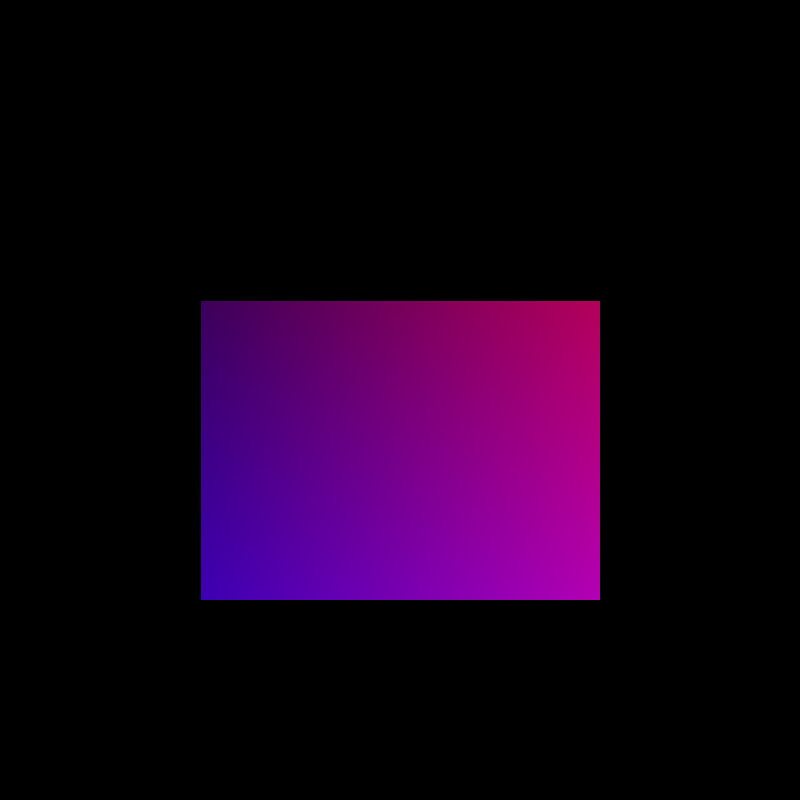
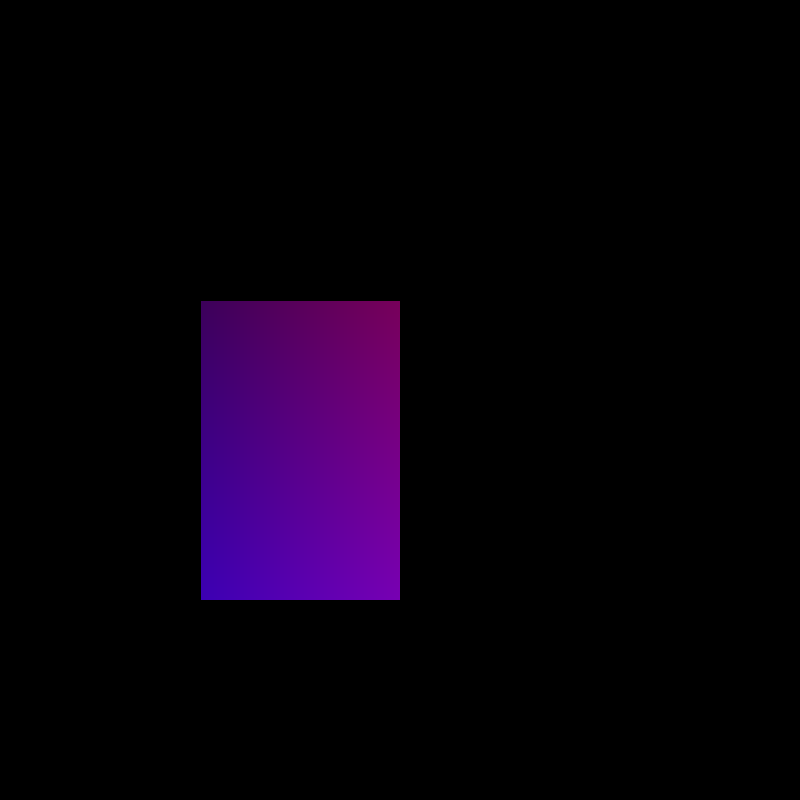
before mod refactoring

Changed region(s): [[0.5, 0.375, 0.75, 0.75]]

diff --git a/src/main.rs b/src/main.rs
@@ -7,7 +7,7 @@ use std::ops::Mul;
 use std::ops::Sub;
 
 fn triang(x: u32, y: u32) -> bool {
-    if (x > 200) & (x < 600) & (y > 300) & (y < 600) {
+    if (x > 200) & (x < 400) & (y > 300) & (y < 600) {
         true
     } else {
         false
@@ -15,7 +15,7 @@ fn triang(x: u32, y: u32) -> bool {
 }
 
 fn square(x: u32, y: u32) -> bool {
-    if (x > 200) & (x < 300) & (y > 100) & (y < 400) {
+    if (x > 200) & (x < 300) & (y > 100) & (y < 200) {
         true
     } else {
         false
@@ -94,7 +94,7 @@ fn distatance(p1: &Vector, p2: &Vector, X: &Vector) -> f32 {
 }
 
 fn warpy<'a>(
-    line_pairs: &'a mut Vec<LinePair>,
+    line_pairs: &'a Vec<LinePair>,
     source: &'a mut image::ImageBuffer<image::Rgb<u8>, Vec<u8>>,
     target: &'a mut image::ImageBuffer<image::Rgb<u8>, Vec<u8>>,
 ) -> (
@@ -135,7 +135,7 @@ fn warpy<'a>(
             let t_pixel = source.get_pixel(X_new.x.floor() as u32, X_new.y.floor() as u32);
             *pixel = t_pixel.clone();
         } else {
-            // *pixel = image::Rgb([0, 0, 0]);
+            *pixel = image::Rgb([255, 255, 255]);
         }
     }
 
@@ -169,36 +169,38 @@ fn main() {
             *pixel = image::Rgb([r, 0, b]);
         } else {
             *pixel = image::Rgb([0, 0, 0]);
-        }
+        } 
     }
 
     imgbufsource.save("./data/source.png").unwrap();
-    imgbufdestination.save("./data/destination.png").unwrap();
+    imgbufdestination.save("./dKDTreeata/destination.png").unwrap();
 
-    let mut lp = vec![
+    let lp = vec![
         LinePair {
             t_line: Line {
-                p: Vector { x: 400.0, y: 500.0 },
-                q: Vector { x: 400.0, y: 520.0 },
+                p: Vector { x: 100.0, y: 100.0 },
+                q: Vector { x: 100.0, y: 200.0 },
             },
             s_line: Line {
-                p: Vector { x: 200.0, y: 500.0 },
-                q: Vector { x: 200.0, y: 550.0 },
+                p: Vector { x: 100.0, y: 100.0 },
+                q: Vector { x: 100.0, y: 200.0 },
             },
         },
         LinePair {
             t_line: Line {
-                p: Vector { x: 400.0, y: 520.0 },
-                q: Vector { x: 500.0, y: 530.0 },
+                p: Vector { x: 100.0, y: 200.0 },
+                q: Vector { x: 200.0, y: 200.0 },
             },
             s_line: Line {
-                p: Vector { x: 200.0, y: 500.0 },
-                q: Vector { x: 200.0, y: 550.0 },
+                p: Vector { x: 100.0, y: 200.0 },
+                q: Vector { x: 200.0, y: 250.0 },
             },
         },
     ];
+        
+    let (a, b) = warpy(&lp, &mut imgbufsource, &mut imgbufdestination);
 
-    let (a, b) = warpy(&mut lp, &mut imgbufsource, &mut imgbufdestination);
+    
     a.save("./data/source_source.png").unwrap();
     b.save("./data/target_source.png").unwrap();
 }
